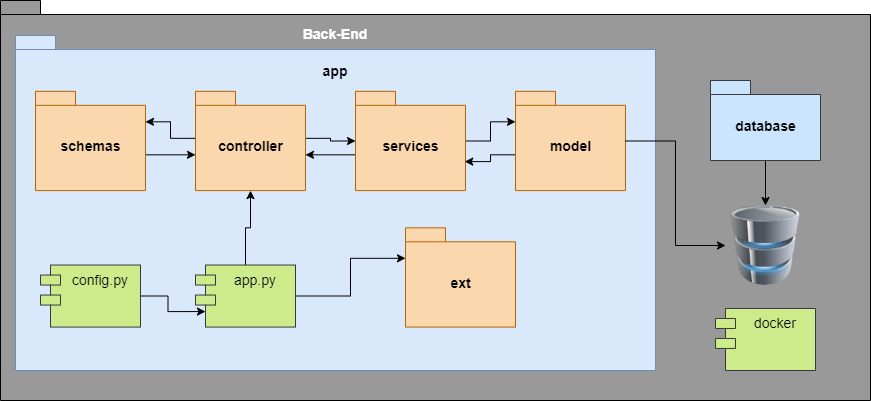
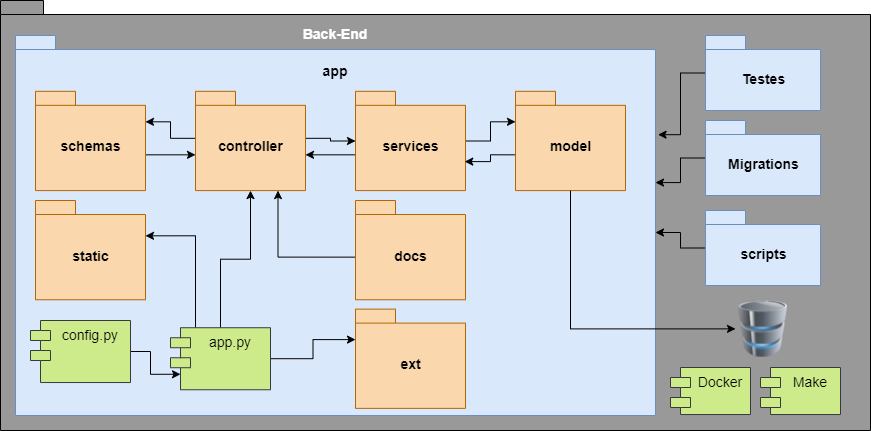
(#218) adicao dos novos pacotes no diagrama

diff --git a/docs/documentacao/documento-de-arquitetura.md b/docs/documentacao/documento-de-arquitetura.md
@@ -19,7 +19,7 @@ Data|Versão|Descrição|Autor
 16/04|1.5|Adição do detalhamento das pastas do Back-End|Thiago|
 18/04|1.6|Revisão da visão lógica | Rafael e Thiago|
 18/05|1.7|Adição do Flask-Migrate e Flask-Swagger |Thiago|
-
+18/05|1.8|Atualização do Diagrama de Pacotes |Thiago|
 ## 1. <a name="1">Introdução</a>
 
 ### 1.1 <a name="1_1">Finalidade</a>
@@ -68,7 +68,7 @@ Data|Versão|Descrição|Autor
 
 <p align = "justify"> &emsp;&emsp; Para este projeto, decidimos escolher a micro framework web Flask, implementada em Python para ficar responsável pelo back-end do projeto. Por ser um micro framework, o <a href="https://flask.palletsprojects.com/en/1.1.x/">Flask</a> possui apenas o mínimo possível para a API funcionar.</p>
 
-<p align = "justify"> &emsp;&emsp; Assim, se for necessário, é possível instalar pacotes extras para todo desenvolvimento da aplicação. Isso permite que um projeto implementado com o Flask só tenha o que realmente precisa, ao invés de termos inúmeras ferramentas e módulos sem nenhuma utilização no projeto. Dentre estes pacotes extras há: o <a href="https://flask-sqlalchemy.palletsprojects.com/en/2.x/">SQLAlchemy</a> para cuidar da comunicação com o banco de dados; <a href="https://flask-marshmallow.readthedocs.io/en/latest/">Mashmallow</a> para cuidar da serialização; o <a href="https://flask-migrate.readthedocs.io/en/latest/" >Migrate</a>, que cuida do versionamento do banco de dados pelo Python; o <a href="https://github.com/flasgger/flasgger" >Flasgger</a> para a documentação da API; e o <a href="https://pythonhosted.org/Flask-Mail/">Flask-mail</a> para o envio de e-mails.</p>
+<p align = "justify"> &emsp;&emsp; Assim, se for necessário, é possível instalar pacotes extras para todo desenvolvimento da aplicação. Isso permite que um projeto implementado com o Flask só tenha o que realmente precisa, ao invés de termos inúmeras ferramentas e módulos sem nenhuma utilização no projeto. Dentre estes pacotes extras há: o <a href="https://flask-sqlalchemy.palletsprojects.com/en/2.x/">SQLAlchemy</a> para cuidar da comunicação com o banco de dados; <a href="https://flask-marshmallow.readthedocs.io/en/latest">Mashmallow</a> para cuidar da serialização; o <a href="https://flask-migrate.readthedocs.io/en/latest/" >Migrate</a>, que cuida do versionamento do banco de dados pelo Python; o <a href="https://github.com/flasgger/flasgger" >Flasgger</a> para a documentação da API; e o <a href="https://pythonhosted.org/Flask-Mail/">Flask-mail</a> para o envio de e-mails.</p>
 
 ### 2.3 <a name="2_3">MySQL</a>
 
@@ -159,13 +159,14 @@ href="https://insights.stackoverflow.com/survey/2020#technology">o favorito do m
 #### 5.1.2 <a name="5_1_1">Back-End</a>
 <div style="display:block;text-align:center"><img src="/2020.2-Anunbis/images/diagramaPacotesBackEnd.png" alt="Diagrama de pacotes Back-End"/></div>
 
-#### 5.1.2.1 <a name="5.1.2.1">Organização das Pastas</a>
-* database: Contem os scrips SQL do banco de dados.
+#### 5.1.2.1 <a name="5.1.2.1">Organização dos pacotes</a>
 * controller: Contém as rotas da api.
-* schemas: Contém os arquivos que cuidam da lógica de serialização, deserelização e validação dos JSON que vão entrar e sair.
+* schemas: Contém os arquivos que cuidam da lógica de serialização, deserelização e validação dos JSON que vão entrar e sair pela API.
 * model: Contém os arquivos que representam as entidades do banco de dados.
 * services: Contém os arquivos que cuidam da lógica de negócio e é a ponte que conecta o controller com o model.
-* ext: Contém os arquivos de bibliotecas externas da aplicação. Por exemplo, o conector com o banco de dados e autenticação.
+* ext: Contém os arquivos de bibliotecas externas da aplicação. Por exemplo, o conector com o banco de dados, a autenticação e os e-mails.
+* docs: Contém os arquivos do Swagger que documentam cada rota da API.
+* static: Contém os arquivos estáticos, como os templates de e-mail e os dados dos cursos, disciplinas e professores que populam o banco de dados.
 ## 6. <a name="6">Visão da Implementação</a>
 
 ### 6.1 <a name="6_1">Modelagem dos dados</a>
